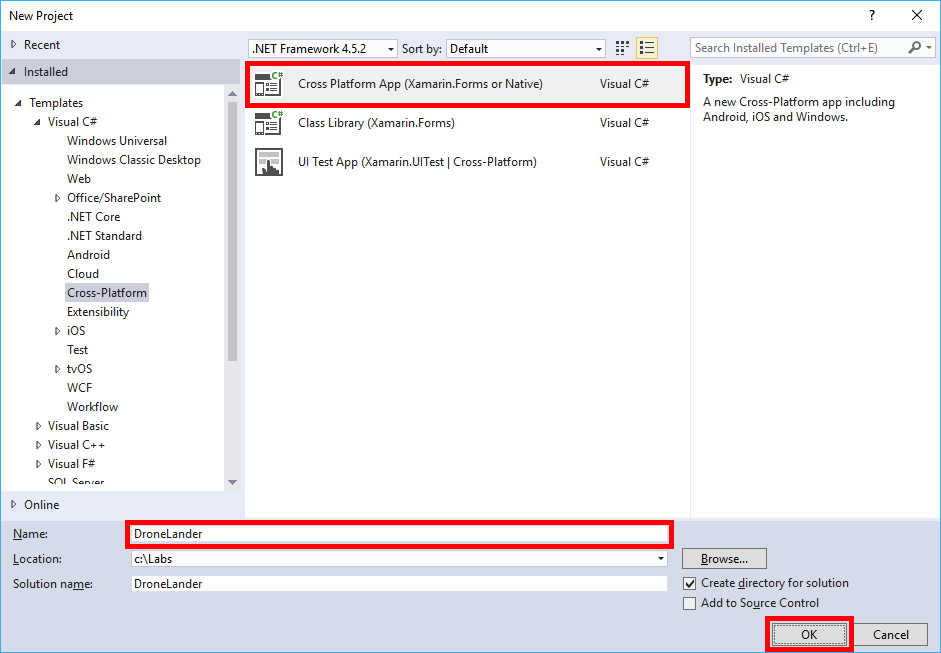
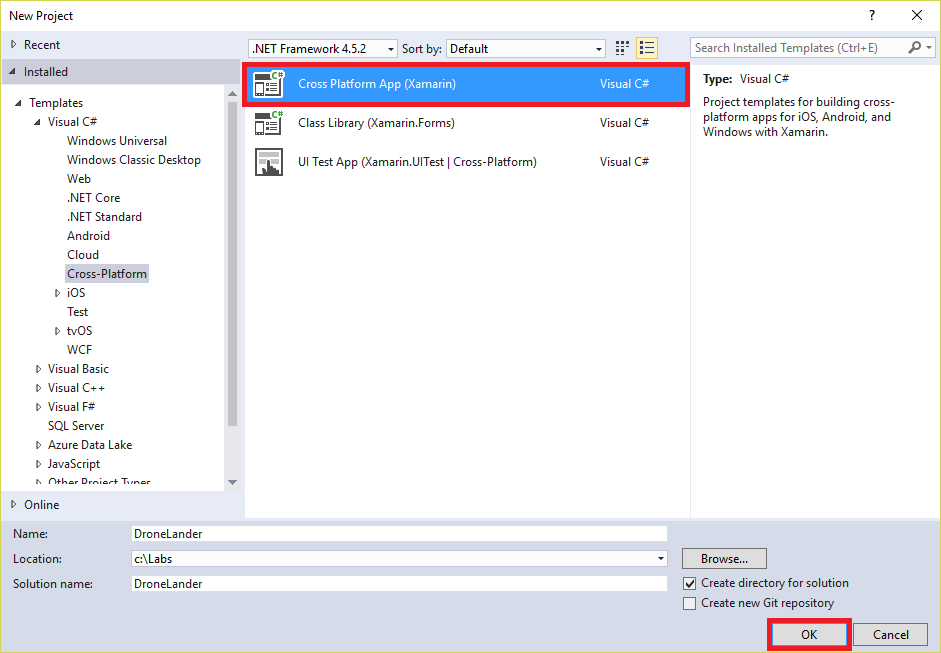
Revised Lab 1

diff --git a/Module 1/Operation Remote Resupply, Part 1.html b/Module 1/Operation Remote Resupply, Part 1.html
@@ -538,7 +538,7 @@ vertical-align:1px;
 <p>The first step in creating a cross-platform solution with Xamarin Forms is to provision a solution based on the Visual Studio 2017 Cross Platform App template. In this exercise, you will create a new Xamarin Forms solution using this template.</p>
 <ol>
 <li>
-<p>Start Visual Studio 2017. Then use the <strong>File</strong> &gt; <strong>New</strong> &gt; <strong>Project</strong> command to create a new Cross Platform App solution named "DroneLander."</p>
+<p>Start Visual Studio 2017. Then use the <strong>File</strong> &gt; <strong>New</strong> &gt; <strong>Project</strong> command to create a new Cross Platform App (Xamarin) solution named "DroneLander."</p>
 <p><a href="Images/vs-new-project.png" target="_blank"><img src="Images/vs-new-project.png" alt="Creating a new Cross Platform App solution" style="max-width:100%;"></a></p>
 <p><em>Creating a new Cross Platform App solution</em></p>
 </li>
@@ -548,7 +548,7 @@ vertical-align:1px;
 <p><em>Specifying Cross Platform App preferences</em></p>
 </li>
 <li>
-<p>When prompted to choose platform requirements for the Universal Windows Platform project, accept the defaults and click <strong>OK</strong>.</p>
+<p>When prompted to choose platform requirements for the Universal Windows Platform project, accept the defaults and click <strong>OK</strong>. If you are then prompted to connect to a Mac, simply close the dialog.</p>
 <p><a href="Images/vs-target-platform.png" target="_blank"><img src="Images/vs-target-platform.png" alt="Specifying UWP platform versions" style="max-width:100%;"></a></p>
 <p><em>Specifying UWP platform versions</em></p>
 </li>
@@ -564,7 +564,7 @@ vertical-align:1px;
 <p><em>The generated solution</em></p>
 </li>
 <li>
-<p>Right-click the <strong>DroneLander.Android</strong> project in Solution Explorer and select <strong>Properties</strong> from the context menu. Then click <strong>Android Options</strong> and uncheck the <strong>Use Fast Deployment (debug mode only)</strong> box. This option, if enabled, sometimes causes problems with Android emulators in Hyper-V.</p>
+<p>Right-click the <strong>DroneLander.Android</strong> project in Solution Explorer and select <strong>Properties</strong> from the context menu. Then click <strong>Android Options</strong>, uncheck the <strong>Use Fast Deployment</strong> box, and save your changes. This option, if enabled, sometimes causes problems with Android emulators in Hyper-V.</p>
 <p><a href="Images/disable-fast-deployment.png" target="_blank"><img src="Images/disable-fast-deployment.png" alt="Disabling fast deployment on Android" style="max-width:100%;"></a></p>
 <p><em>Disabling fast deployment on Android</em></p>
 </li>
@@ -586,7 +586,7 @@ vertical-align:1px;
 <p><em>Merging  folders</em></p>
 </li>
 <li>
-<p>In the "Destination File Exists" dialog, again check <strong>Apply to all items</strong> and then click <strong>Yes</strong>. This will update your Android images and assets with appropriately branded assets for your app.</p>
+<p>In the "Destination File Exists" dialog, again check <strong>Apply to all items</strong> and click <strong>Yes</strong>. This will update your Android images and assets with appropriately branded assets for your app.</p>
 <p><a href="Images/vs-accept-overwrite-01.png" target="_blank"><img src="Images/vs-accept-overwrite-01.png" alt="Overwriting existing resources" style="max-width:100%;"></a></p>
 <p><em>Overwriting existing resources</em></p>
 </li>
@@ -601,12 +601,17 @@ vertical-align:1px;
 <p><em>Overwriting existing resources</em></p>
 </li>
 <li>
-<p>Open <strong>Info.plist</strong> in the <strong>DroneLander.iOS</strong> project. Scroll to the bottom of the list, right-click <strong>Launch screen interface file base name</strong>, and select <strong>Delete</strong> to delete this property from the file. Removing this property instructs iOS to use image assets rather than storyboards for launch images.</p>
+<p>Right-click <strong>Info.plist</strong> in the <strong>DroneLander.iOS</strong> project and select <strong>Open With...</strong> from the context menu. Then select <strong>Generic PList Editor</strong> and click <strong>OK</strong>.</p>
+<p><a href="Images/open-plist.png" target="_blank"><img src="Images/open-plist.png" alt="Opening Info.plist" style="max-width:100%;"></a></p>
+<p><em>Opening Info.plist</em></p>
+</li>
+<li>
+<p>Scroll to the bottom of the list, right-click <strong>Launch screen interface file base name</strong>, and select <strong>Delete</strong> to delete this property from the file. Removing this property instructs iOS to use image assets rather than storyboards for launch images.</p>
 <p><a href="Images/vs-info-plist.png" target="_blank"><img src="Images/vs-info-plist.png" alt="Deleting a property from Info.plist" style="max-width:100%;"></a></p>
 <p><em>Deleting a property from Info.plist</em></p>
 </li>
 <li>
-<p>In Solution Explorer, right-click the "Resources" folder in the <strong>DroneLander.UWP (Windows Universal)</strong> project and use the <strong>Add</strong> &gt; <strong>Existing Item...</strong> command to import the file named <strong>drone_lander_back.jpg</strong> from the lab's "Resources\UWP" folder.</p>
+<p>In Solution Explorer, right-click the <strong>DroneLander.UWP</strong> project and use the <strong>Add</strong> &gt; <strong>Existing Item...</strong> command to import the file named <strong>drone_lander_back.jpg</strong> from the lab's "Resources\UWP" folder into the root of the project.</p>
 </li>
 <li>
 <p>Now right-click the "Assets" folder in the same project and use the <strong>Add</strong> &gt; <strong>Existing Item...</strong> command to import all of the files from the lab's "Resources\UWP\Assets" folder.</p>
@@ -651,7 +656,7 @@ vertical-align:1px;
 &lt;/<span class="pl-ent">Package</span>&gt;</pre></div>
 </li>
 <li>
-<p>Now it's time to run the app for the first time. Let's start with the Android version of the app. Ensure that the Android project is selected as the startup project by right-clicking the <strong>DroneLander.Android</strong> project in Solution Explorer and selecting <strong>Set as StartUp Project</strong>.</p>
+<p>Now it's time to run the app for the first time. Let's start with the Android version. Ensure that the Android project is selected as the startup project by right-clicking the <strong>DroneLander.Android</strong> project in Solution Explorer and selecting <strong>Set as StartUp Project</strong>.</p>
 </li>
 <li>
 <p>Click the <strong>Run</strong> button (the one with the green arrow) at the top of Visual Studio to launch the Android version of Drone Lander in the selected Android emulator. Note that the emulator will probably take a minute or two to start.</p>
@@ -686,10 +691,10 @@ vertical-align:1px;
 <p>If you go to the home screen in the Android emulator or the start screen in Windows, you should find customized icons for the apps. Customizing the branding in this way is a good first step in building a great Xamarin Forms app that lights up on various platforms.</p>
 <p><a name="Exercise4"></a></p>
 <h2>Exercise 4: Add common logic to the Portable project</h2>
-<p>A common design pattern used in Xamarin Forms solutions is the <a href="https://en.wikipedia.org/wiki/Model%E2%80%93view%E2%80%93viewmodel">Model-View-ViewModel</a> (MVVM) pattern, which facilitates a clean separation of the business logic from the user interface. In this exercise, you will implement a model and a view-model in C# and place them in the Portable project so that they are shared by the iOS, Android, and Windows apps. You will also import some helper classes used by the view-model and by the user interface.</p>
+<p>A common design pattern used in Xamarin Forms solutions is the <a href="https://en.wikipedia.org/wiki/Model%E2%80%93view%E2%80%93viewmodel">Model-View-ViewModel</a> (MVVM) pattern, which facilitates a clean separation of the business logic and user interface. In this exercise, you will implement a model and a view-model in C# and place them in the Portable project so that they are shared by the iOS, Android, and Windows apps. You will also import some helper classes used by the view-model and by the user interface.</p>
 <ol>
 <li>
-<p>In Solution Explorer, right-click the <strong>DroneLander (Portable)</strong> project and use the <strong>Add</strong> &gt; <strong>New Folder</strong> command to add a folder named "Common" to the project. Then repeat this step to add folders named "Models," and "ViewModels" to the project.</p>
+<p>In Solution Explorer, right-click the <strong>DroneLander (Portable)</strong> project and use the <strong>Add</strong> &gt; <strong>New Folder</strong> command to add a folder named "Common" to the project. Then repeat this step to add folders named "Models" and "ViewModels" to the project.</p>
 </li>
 <li>
 <p>Right-click the "Common" folder that you just added and use the <strong>Add</strong> &gt; <strong>Existing Item...</strong> command to import all of the files from the lab's "Resources\Portable\Common" folder. These files contain helper classes that implement commanding and property-binding notifications.</p>
@@ -994,7 +999,7 @@ vertical-align:1px;
         &lt;/<span class="pl-ent">ResourceDictionary</span>&gt;	
 	&lt;/<span class="pl-ent">Application</span>.Resources&gt;
 &lt;/<span class="pl-ent">Application</span>&gt;</pre></div>
-<p>This markup defines several styles that will be used to stylize the app's controls. It also declares an instance of <code>DecimalDisplayConverter</code>, which will be used in <strong>MainPage.xaml</strong> as a value converter. Value converters are components that modify data as it is passed between data sources and data targets during data binding and are widely used in XAML UIs to control output formatting and convert data from one type to another. You imported the <code>DecimalDisplayConverter</code> class when you imported the files from the lab's "Resources\Portable\Common" folder in Exercise 4, Step 2. Declaring styles, converters, and other resources in <strong>App.xaml</strong> makes them available to all of the application's views. You can also declare resources in the XAML files for individual views, but doing so limits the availability of those resources to the views in which they are declared.</p>
+<p>This markup defines several styles used to stylize the app's controls. It also declares an instance of <code>DecimalDisplayConverter</code>, which will be used in <strong>MainPage.xaml</strong> as a value converter. Value converters are components that modify data as it is passed between data sources and data targets during data binding and are widely used in XAML UIs to control output formatting and convert data from one type to another. You imported the <code>DecimalDisplayConverter</code> class when you imported the files from the lab's "Resources\Portable\Common" folder in Exercise 4, Step 2. Declaring styles, converters, and other resources in <strong>App.xaml</strong> makes them available to all of the application's views. You can also declare resources in the XAML files for individual views, but doing so limits the availability of those resources to the views in which they are declared.</p>
 </li>
 <li>
 <p>Now open <strong>App.xaml.cs</strong> and add the following property declaration above the <code>App</code> constructor:</p>
@@ -1131,7 +1136,7 @@ vertical-align:1px;
 <li>
 <p>In Solution Explorer, right-click the <strong>DroneLander.Android</strong> project and use the <strong>Add</strong> &gt; <strong>New Item...</strong> command to add an activity named "SplashActivity.cs."</p>
 <blockquote>
-<p>In Android, an <em>activity</em> is a task that you define to interact with a user. Activities usually, but not always, occupy the entire screen, and are somewhat analgous to <em>pages</em> in other platforms such as Windows.</p>
+<p>In Android, an <em>activity</em> is a task that interacts with the user. Activities usually, but not always, occupy the entire screen, and are somewhat analgous to <em>pages</em> in other platforms such as Windows.</p>
 </blockquote>
 <p><a href="Images/vs-add-splash-activity.png" target="_blank"><img src="Images/vs-add-splash-activity.png" alt="Adding an activity to the Android project" style="max-width:100%;"></a></p>
 <p><em>Adding an activity to the Android project</em></p>

diff --git a/Module 1/Operation Remote Resupply, Part 1.md b/Module 1/Operation Remote Resupply, Part 1.md
@@ -85,7 +85,7 @@ Once these workloads and components are installed, you are ready to begin creati
 
 The first step in creating a cross-platform solution with Xamarin Forms is to provision a solution based on the Visual Studio 2017 Cross Platform App template. In this exercise, you will create a new Xamarin Forms solution using this template.
 
-1. Start Visual Studio 2017. Then use the **File** > **New** > **Project** command to create a new Cross Platform App solution named "DroneLander."
+1. Start Visual Studio 2017. Then use the **File** > **New** > **Project** command to create a new Cross Platform App (Xamarin) solution named "DroneLander."
 
     ![Creating a new Cross Platform App solution](Images/vs-new-project.png)
 
@@ -97,7 +97,7 @@ The first step in creating a cross-platform solution with Xamarin Forms is to pr
 
     _Specifying Cross Platform App preferences_
 
-1. When prompted to choose platform requirements for the Universal Windows Platform project, accept the defaults and click **OK**.
+1. When prompted to choose platform requirements for the Universal Windows Platform project, accept the defaults and click **OK**. If you are then prompted to connect to a Mac, simply close the dialog.
 
     ![Specifying UWP platform versions](Images/vs-target-platform.png)
 
@@ -114,7 +114,7 @@ The first step in creating a cross-platform solution with Xamarin Forms is to pr
 	
 	_The generated solution_
 
-1. Right-click the **DroneLander.Android** project in Solution Explorer and select **Properties** from the context menu. Then click **Android Options** and uncheck the **Use Fast Deployment (debug mode only)** box. This option, if enabled, sometimes causes problems with Android emulators in Hyper-V. 
+1. Right-click the **DroneLander.Android** project in Solution Explorer and select **Properties** from the context menu. Then click **Android Options**, uncheck the **Use Fast Deployment** box, and save your changes. This option, if enabled, sometimes causes problems with Android emulators in Hyper-V. 
 
     ![Disabling fast deployment on Android](Images/disable-fast-deployment.png)
 
@@ -137,7 +137,7 @@ The next step in building your Xamarin Forms app is to add shared and platform-s
 
     _Merging  folders_
 
-1. In the "Destination File Exists" dialog, again check **Apply to all items** and then click **Yes**. This will update your Android images and assets with appropriately branded assets for your app.
+1. In the "Destination File Exists" dialog, again check **Apply to all items** and click **Yes**. This will update your Android images and assets with appropriately branded assets for your app.
 
     ![Overwriting existing resources](Images/vs-accept-overwrite-01.png)
 
@@ -155,13 +155,19 @@ The next step in building your Xamarin Forms app is to add shared and platform-s
 
     _Overwriting existing resources_
 
-1. Open **Info.plist** in the **DroneLander.iOS** project. Scroll to the bottom of the list, right-click **Launch screen interface file base name**, and select **Delete** to delete this property from the file. Removing this property instructs iOS to use image assets rather than storyboards for launch images.
+1. Right-click **Info.plist** in the **DroneLander.iOS** project and select **Open With...** from the context menu. Then select **Generic PList Editor** and click **OK**.
+
+    ![Opening Info.plist](Images/open-plist.png)
+
+    _Opening Info.plist_
+
+1. Scroll to the bottom of the list, right-click **Launch screen interface file base name**, and select **Delete** to delete this property from the file. Removing this property instructs iOS to use image assets rather than storyboards for launch images.
  
     ![Deleting a property from Info.plist](Images/vs-info-plist.png)
 
     _Deleting a property from Info.plist_
 
-1. In Solution Explorer, right-click the "Resources" folder in the **DroneLander.UWP (Windows Universal)** project and use the **Add** > **Existing Item...** command to import the file named **drone_lander_back.jpg** from the lab's "Resources\UWP" folder.
+1. In Solution Explorer, right-click the **DroneLander.UWP** project and use the **Add** > **Existing Item...** command to import the file named **drone_lander_back.jpg** from the lab's "Resources\UWP" folder into the root of the project.
 
 1. Now right-click the "Assets" folder in the same project and use the **Add** > **Existing Item...** command to import all of the files from the lab's "Resources\UWP\Assets" folder.
 
@@ -209,7 +215,7 @@ The next step in building your Xamarin Forms app is to add shared and platform-s
 	</Package>
 	```
 
-1. Now it's time to run the app for the first time. Let's start with the Android version of the app. Ensure that the Android project is selected as the startup project by right-clicking the **DroneLander.Android** project in Solution Explorer and selecting **Set as StartUp Project**.
+1. Now it's time to run the app for the first time. Let's start with the Android version. Ensure that the Android project is selected as the startup project by right-clicking the **DroneLander.Android** project in Solution Explorer and selecting **Set as StartUp Project**.
  
 1. Click the **Run** button (the one with the green arrow) at the top of Visual Studio to launch the Android version of Drone Lander in the selected Android emulator. Note that the emulator will probably take a minute or two to start.
  
@@ -246,9 +252,9 @@ If you go to the home screen in the Android emulator or the start screen in Wind
 <a name="Exercise4"></a>
 ## Exercise 4: Add common logic to the Portable project ##
 
-A common design pattern used in Xamarin Forms solutions is the [Model-View-ViewModel](https://en.wikipedia.org/wiki/Model%E2%80%93view%E2%80%93viewmodel) (MVVM) pattern, which facilitates a clean separation of the business logic from the user interface. In this exercise, you will implement a model and a view-model in C# and place them in the Portable project so that they are shared by the iOS, Android, and Windows apps. You will also import some helper classes used by the view-model and by the user interface.
+A common design pattern used in Xamarin Forms solutions is the [Model-View-ViewModel](https://en.wikipedia.org/wiki/Model%E2%80%93view%E2%80%93viewmodel) (MVVM) pattern, which facilitates a clean separation of the business logic and user interface. In this exercise, you will implement a model and a view-model in C# and place them in the Portable project so that they are shared by the iOS, Android, and Windows apps. You will also import some helper classes used by the view-model and by the user interface.
 
-1. In Solution Explorer, right-click the **DroneLander (Portable)** project and use the **Add** > **New Folder** command to add a folder named "Common" to the project. Then repeat this step to add folders named "Models," and "ViewModels" to the project.
+1. In Solution Explorer, right-click the **DroneLander (Portable)** project and use the **Add** > **New Folder** command to add a folder named "Common" to the project. Then repeat this step to add folders named "Models" and "ViewModels" to the project.
 
 1. Right-click the "Common" folder that you just added and use the **Add** > **Existing Item...** command to import all of the files from the lab's "Resources\Portable\Common" folder. These files contain helper classes that implement commanding and property-binding notifications.
 
@@ -558,7 +564,7 @@ In this exercise, you will add a view to the Portable project and bind it to the
 	</Application>
 	``` 
 
-	This markup defines several styles that will be used to stylize the app's controls. It also declares an instance of ```DecimalDisplayConverter```, which will be used in **MainPage.xaml** as a value converter. Value converters are components that modify data as it is passed between data sources and data targets during data binding and are widely used in XAML UIs to control output formatting and convert data from one type to another. You imported the ```DecimalDisplayConverter``` class when you imported the files from the lab's "Resources\Portable\Common" folder in Exercise 4, Step 2. Declaring styles, converters, and other resources in **App.xaml** makes them available to all of the application's views. You can also declare resources in the XAML files for individual views, but doing so limits the availability of those resources to the views in which they are declared.
+	This markup defines several styles used to stylize the app's controls. It also declares an instance of ```DecimalDisplayConverter```, which will be used in **MainPage.xaml** as a value converter. Value converters are components that modify data as it is passed between data sources and data targets during data binding and are widely used in XAML UIs to control output formatting and convert data from one type to another. You imported the ```DecimalDisplayConverter``` class when you imported the files from the lab's "Resources\Portable\Common" folder in Exercise 4, Step 2. Declaring styles, converters, and other resources in **App.xaml** makes them available to all of the application's views. You can also declare resources in the XAML files for individual views, but doing so limits the availability of those resources to the views in which they are declared.
 
 1. Now open **App.xaml.cs** and add the following property declaration above the ```App``` constructor:
 
@@ -712,7 +718,7 @@ Have some extra time and want to try an additional challenge? Did you notice tha
 
 1. In Solution Explorer, right-click the **DroneLander.Android** project and use the **Add** > **New Item...** command to add an activity named "SplashActivity.cs."
 
-	> In Android, an *activity* is a task that you define to interact with a user. Activities usually, but not always, occupy the entire screen, and are somewhat analgous to *pages* in other platforms such as Windows.
+	> In Android, an *activity* is a task that interacts with the user. Activities usually, but not always, occupy the entire screen, and are somewhat analgous to *pages* in other platforms such as Windows.
 
     ![Adding an activity to the Android project](Images/vs-add-splash-activity.png)
 
